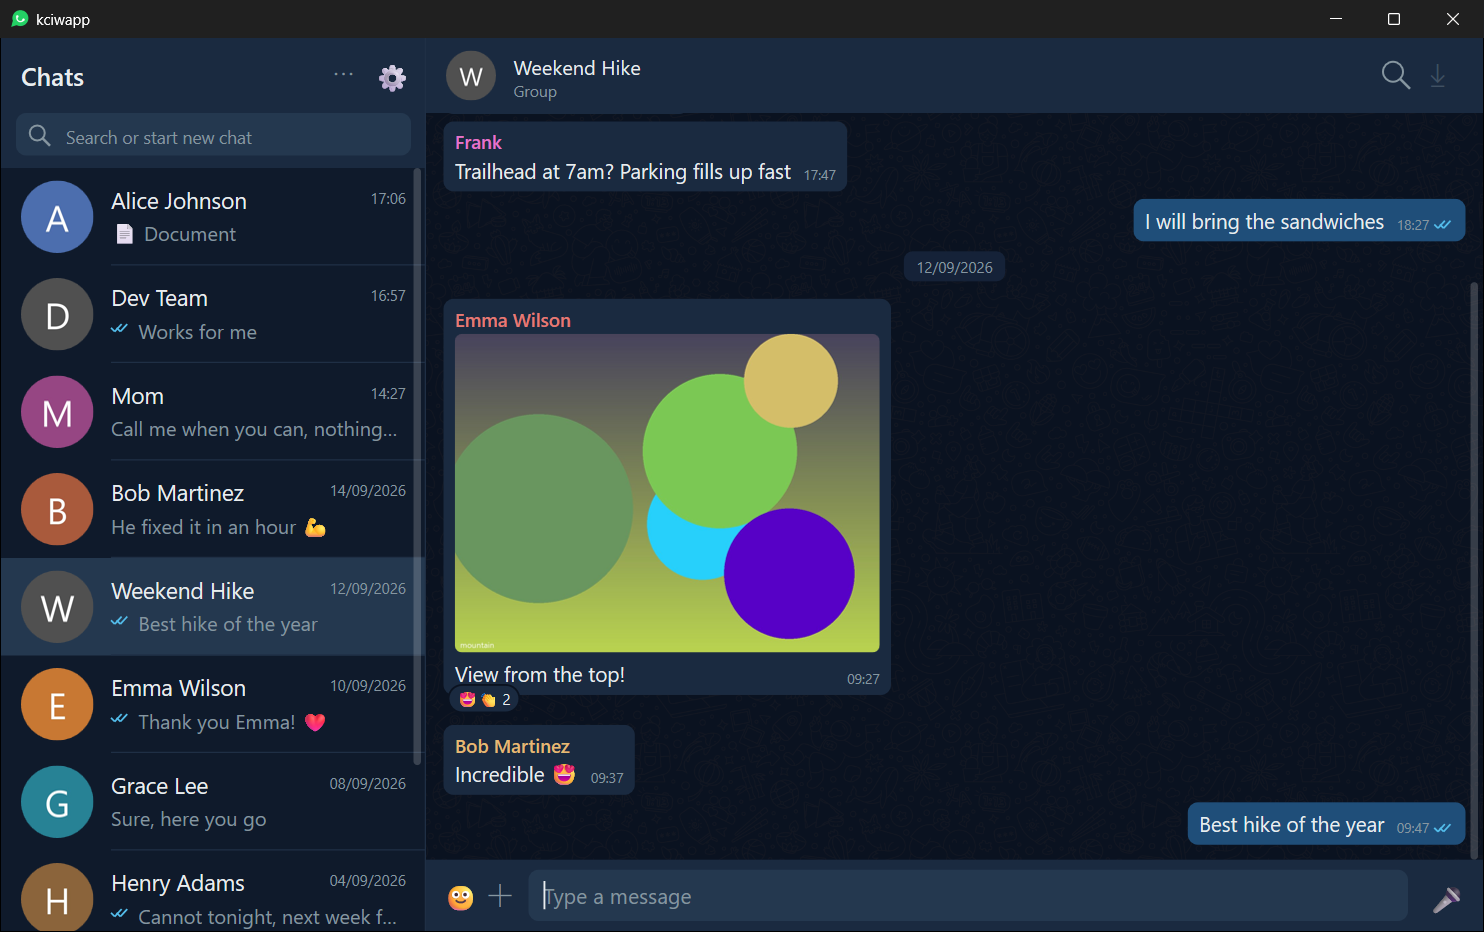
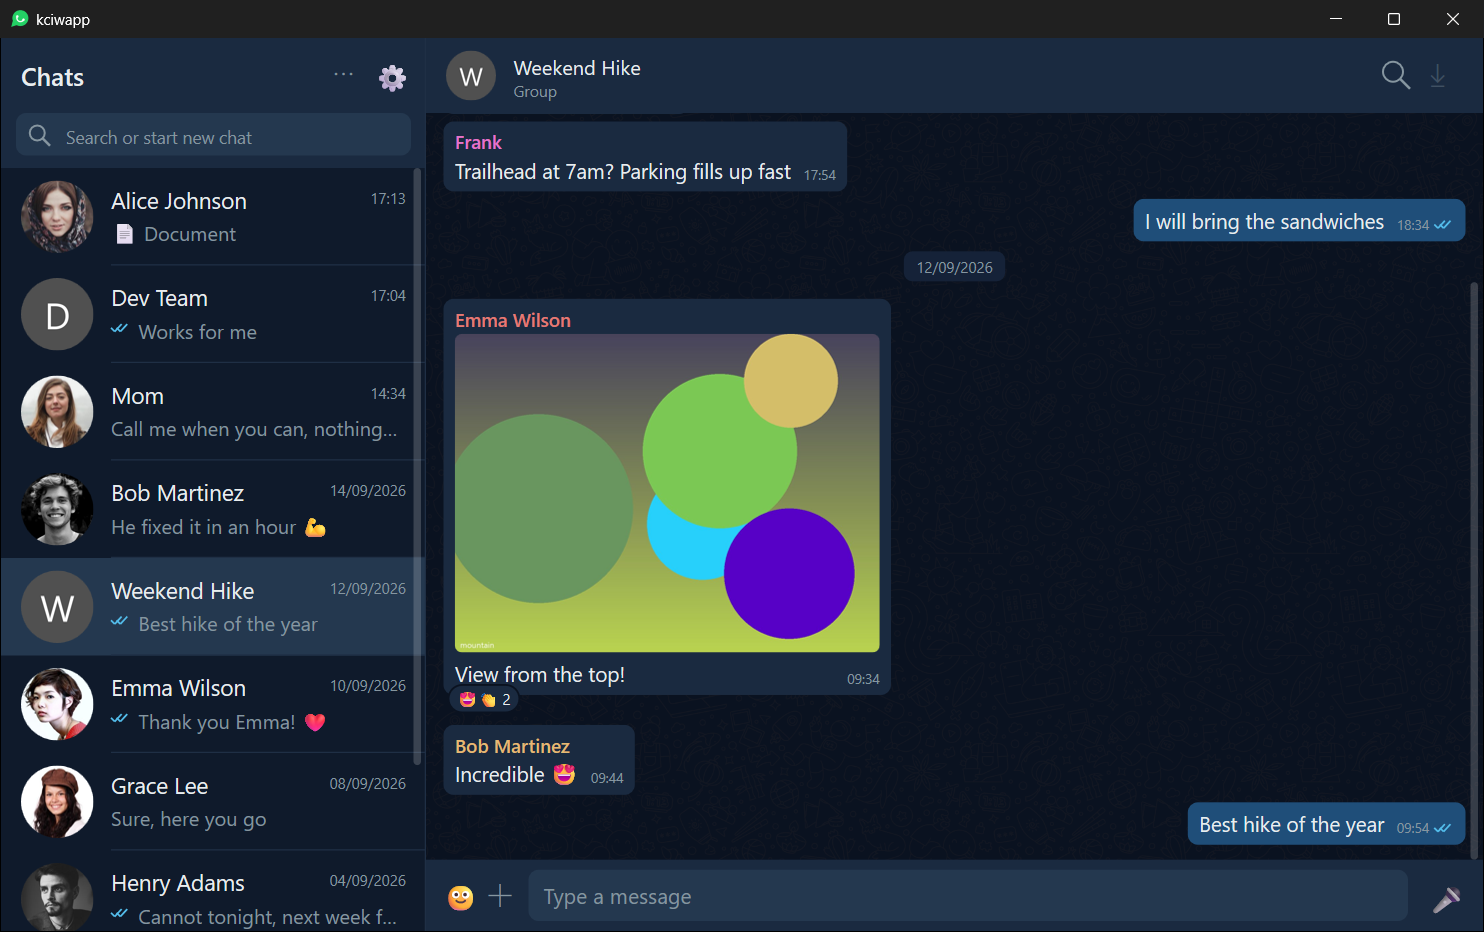
capturas: avatares con retratos de placeholder (pravatar)

diff --git a/docs/demo-datos.py b/docs/demo-datos.py
@@ -29,7 +29,18 @@ def fuente(tam):
             pass
     return ImageFont.load_default()
 
-def avatar(ruta, inicial, color):
+# Retratos de placeholder (pravatar.cc = fotos libres de Unsplash); si no hay
+# red, un circulo con la inicial.
+import urllib.request
+def avatar(ruta, inicial, color, foto_n=None):
+    if foto_n is not None:
+        try:
+            req = urllib.request.Request('https://i.pravatar.cc/256?img=%d' % foto_n, headers={'User-Agent': 'kciwapp-demo'})
+            datos = urllib.request.urlopen(req, timeout=20).read()
+            Image.open(io.BytesIO(datos)).convert('RGB').save(ruta, 'JPEG', quality=88)
+            return
+        except Exception as e:
+            print('sin foto para', inicial, e)
     im = Image.new('RGB', (256, 256), color)
     d = ImageDraw.Draw(im)
     f = fuente(130)
@@ -165,9 +176,11 @@ con = sqlite3.connect(DB)
 cur = con.cursor()
 for t in ('mensajes', 'reacciones', 'media', 'chats', 'contactos', 'miembros', 'eventos'):
     cur.execute(f'DELETE FROM {t}')
-for jid, nombre, color in contactos:
+# Numeros de retrato de pravatar (elegidos para que coincidan con los nombres).
+retratos = [47, 12, 32, 60, 25, 8, 44, 68]
+for (jid, nombre, color), n_foto in zip(contactos, retratos):
     ruta = os.path.join(FOTOS, jid.split('@')[0] + '.jpg')
-    avatar(ruta, nombre[0], color)
+    avatar(ruta, nombre[0], color, n_foto)
     cur.execute('INSERT INTO contactos (jid, telefono, nombre_agenda, foto) VALUES (?, ?, ?, ?)', (jid, '+' + jid.split('@')[0], nombre, ruta))
 cur.execute('INSERT INTO contactos (jid, telefono, nombre_agenda) VALUES (?, ?, ?)', (YO, '+15550001234', 'You'))
 for jid, nombre, miembros in grupos:
